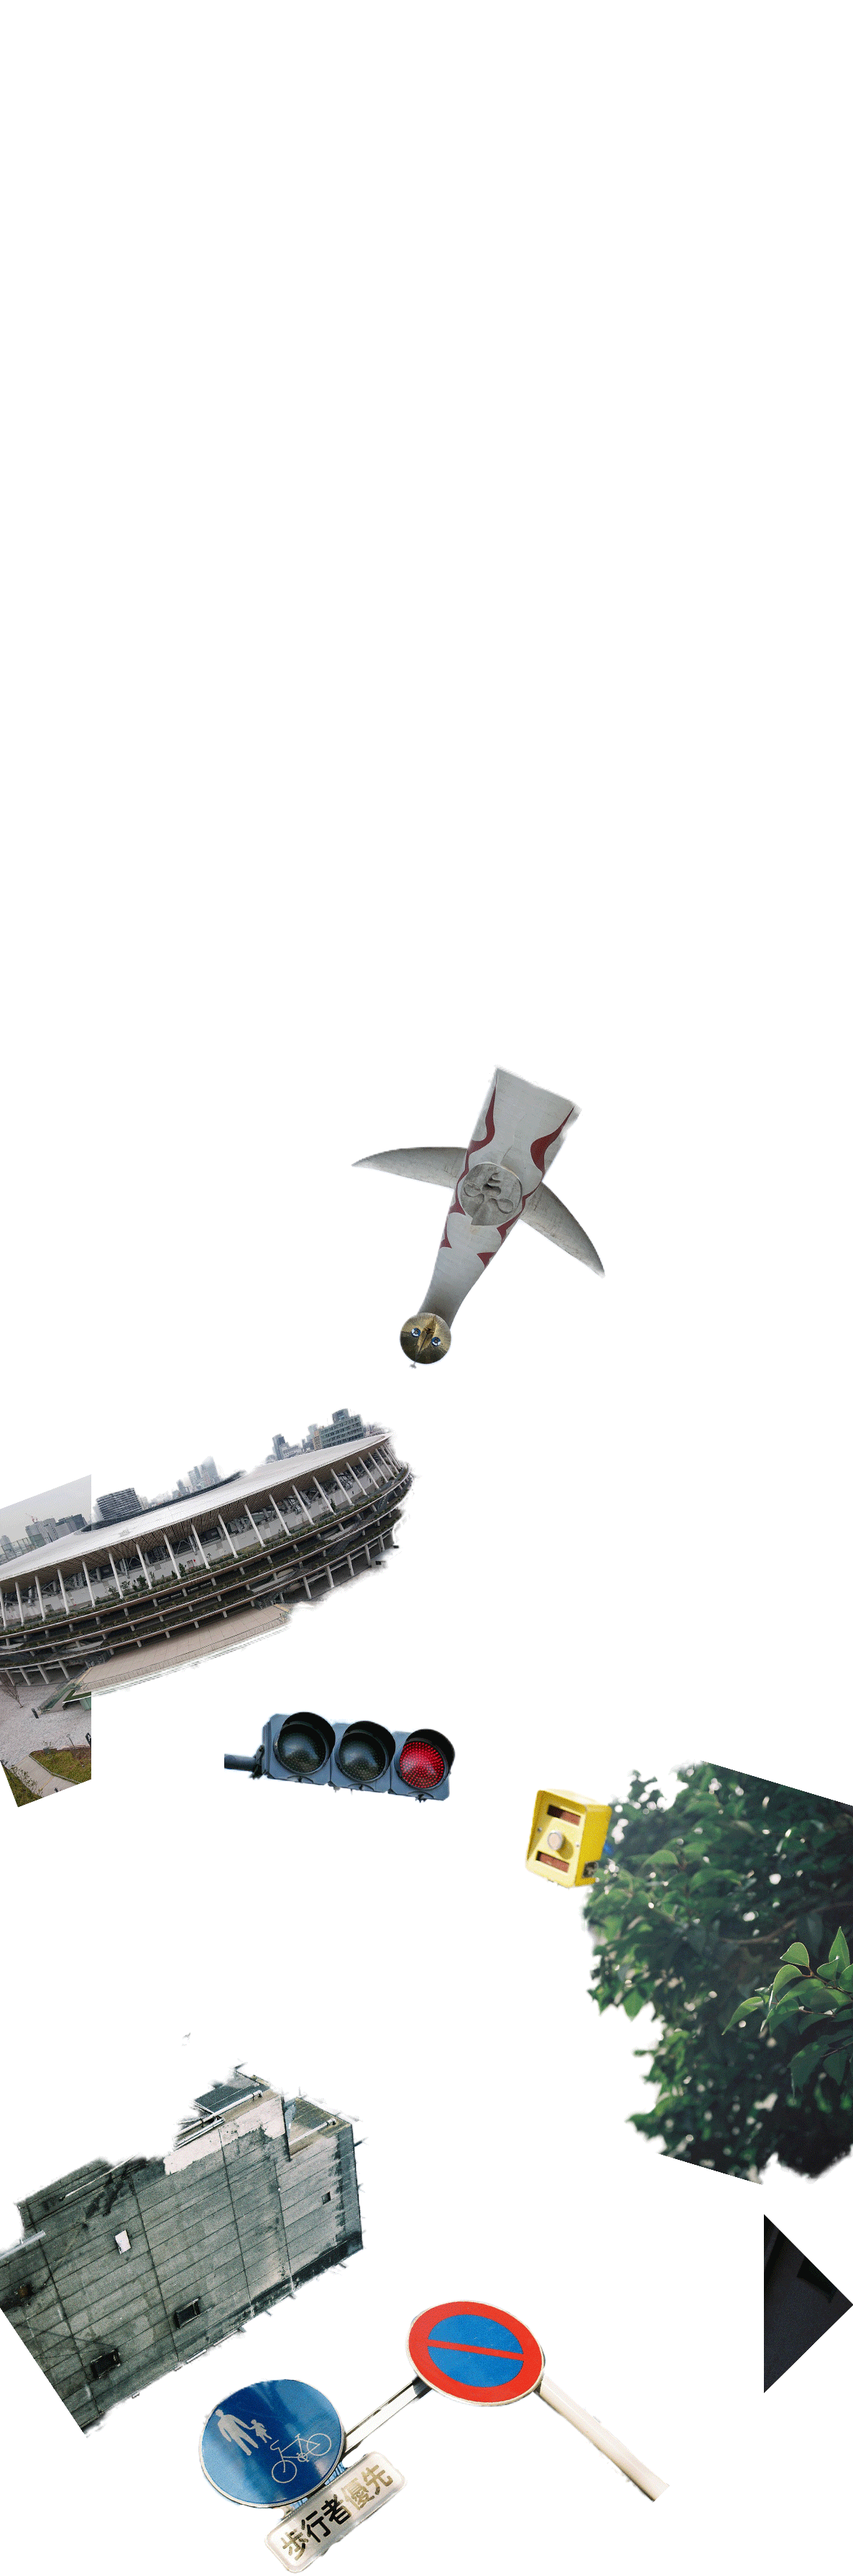
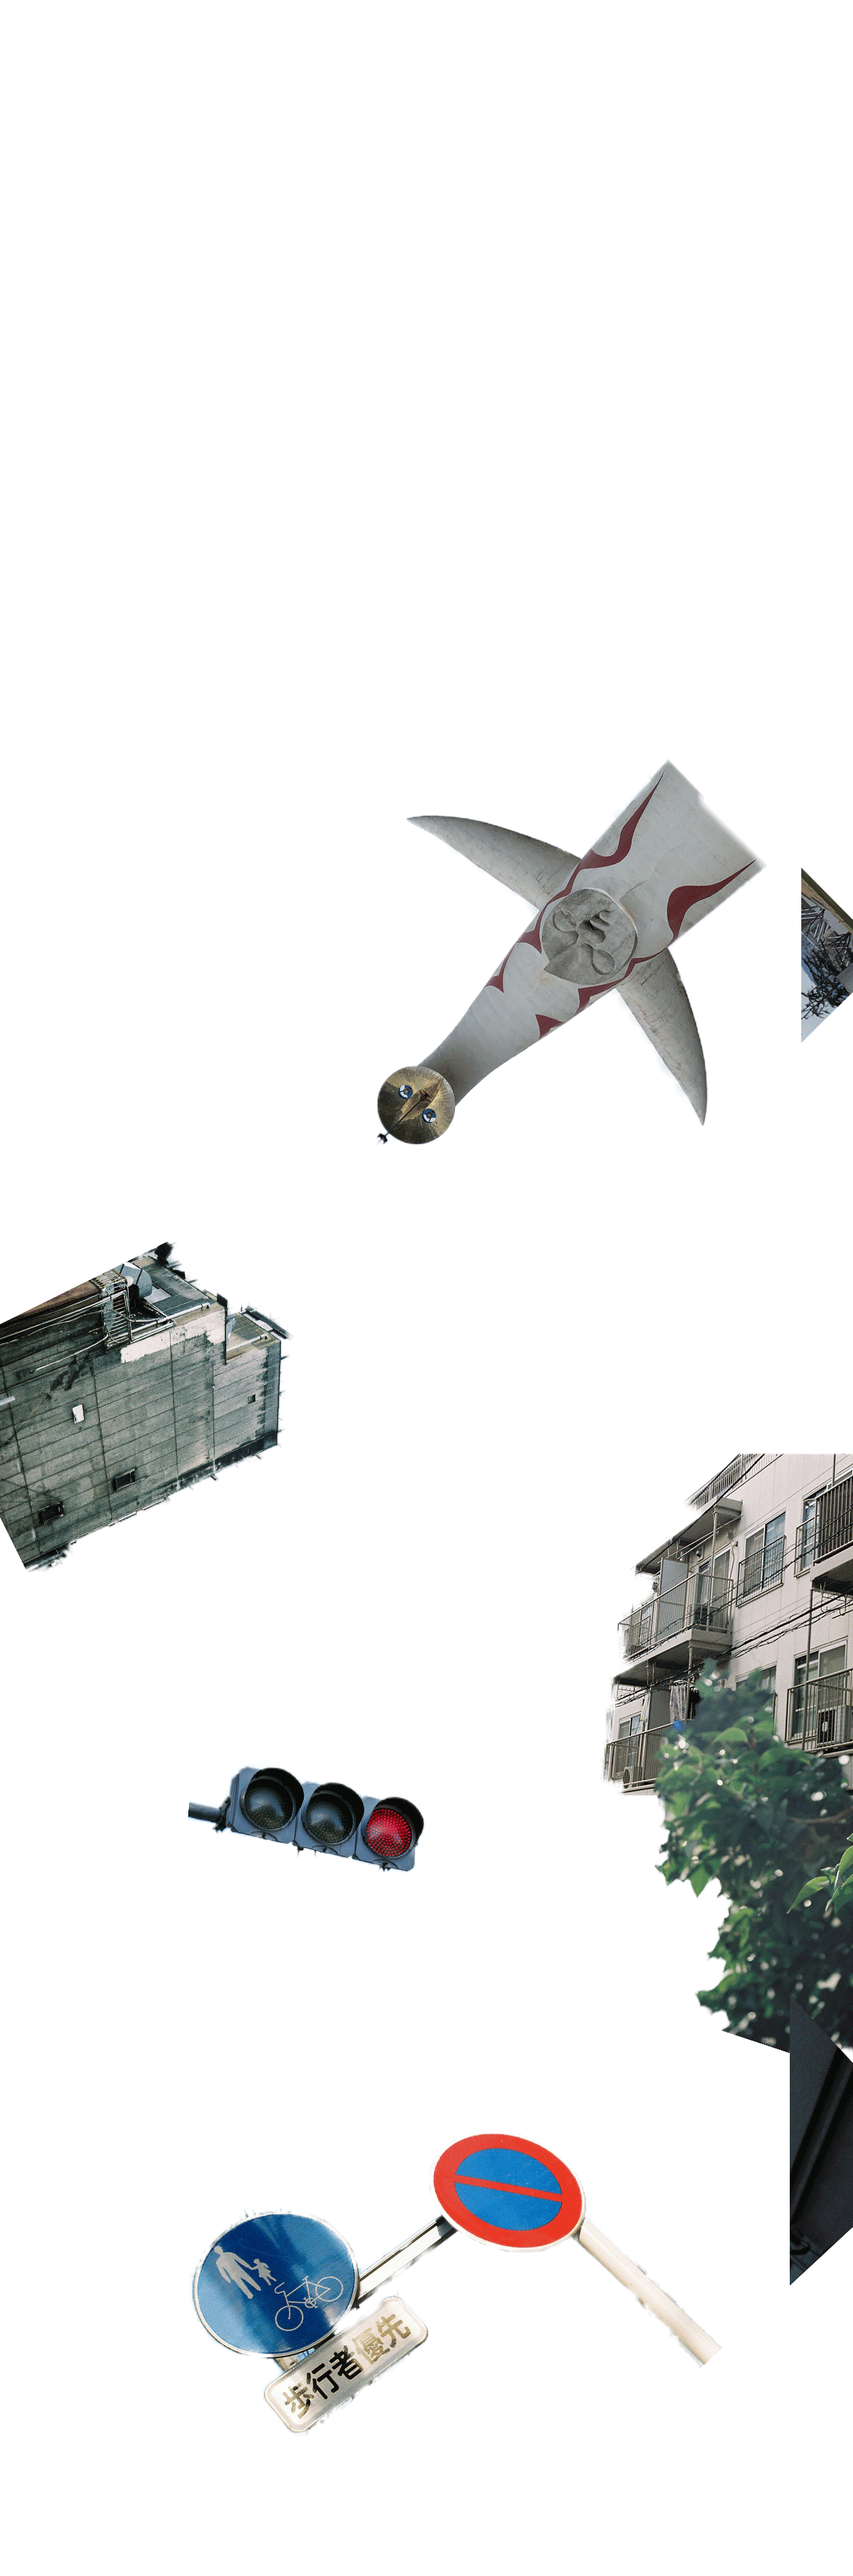
2022/07/19final

diff --git a/docs/index.html b/docs/index.html
@@ -2,7 +2,7 @@
 <html lang="ja">
   <head>
     <meta charset="utf-8">
-    <title>Matsuhsita</title>
+    <title>MUJYUURYOKUSHOUTENNGAI</title>
     <link rel="stylesheet" href="style.css">
     <script src="script.js"></script>
  
@@ -13,26 +13,39 @@
     <!-- page content -->
     <div class="parallax">
 
-      <div class="parallax_layer parallax_layerfront">
-        <div class="title">background1</div>
+      <div class="parallax_layer parallax_layerbackex">
+        
+       
+        <img src="images/web07.png" id="gazou" style="vertical-align:middle;"><br>
+        <img src="images/web08.png" id="gazou" style="vertical-align:middle;"><br>
+        
+      </div>
 
+      <div class="parallax_layer parallax_layerback">
+        
+       
         <img src="images/web03.png" id="gazou" style="vertical-align:middle;"><br>
         <img src="images/web04.png" id="gazou" style="vertical-align:middle;"><br>
         
       </div>
+
+      <div class="parallax_layer parallax_layerfront">
+        <img src="images/web05.png" id="gazou" style="vertical-align:middle;"><br>
+        <img src="images/web06.png" id="gazou" style="vertical-align:middle;"><br>
+        <div class="title"></div>
+       </div>
       
        <div class="parallax_layer parallax__layerbase">
-        <div class="title">background2</div>
+        
 
         <img src="images/web01.png" id="gazou" style="vertical-align:middle;"><br>
         <img src="images/web02.png" id="gazou" style="vertical-align:middle;"><br>
        
       </div>
-      
-      <div class="parallax_layer parallax_layerback">
-        <div class="title">background3</div>
         
-      </div>
+       
+        
+    
 
 
 

diff --git a/docs/style.css b/docs/style.css
@@ -1,10 +1,10 @@
 .parallax {
   perspective: 1px;
-  height: 800px;
+  height: 1000px;
   overflow-x: hidden;
   overflow-y: auto;
   position: relative;
-  font-size: 200%;
+  font-size: 4vw;
 }
 .parallax_layer {
   position: absolute;
@@ -15,30 +15,40 @@
   padding: 0px 0;
 }
 
+#gazou {
+  width: 100%;
+}
+
+.parallax_layerbackex {
+  transform: translateZ(-1px);
+ 
+}
+
 .parallax_layerfront {
   transform: translateZ(-0.5px);
   
 }
 
 .parallax_layerbase {
-  transform: translateZ(-1px);
+  transform: translateZ(-0.6px);
   
 }
 .parallax_layerback {
-  transform: translateZ(-1.5px);
-  
+  transform: translateZ(-0.7px);
+  font-size: 3vw;
 }
+
 
 .title {
     position: absolute;
     left: 50%;
     top: 50%;
     transform: translate(-50%, -50%);
+    font-family: serifs;
+   
 }
 
-#gazou {
-  width: 100%;
-}
+
 
 #space {
   height: 0px;
